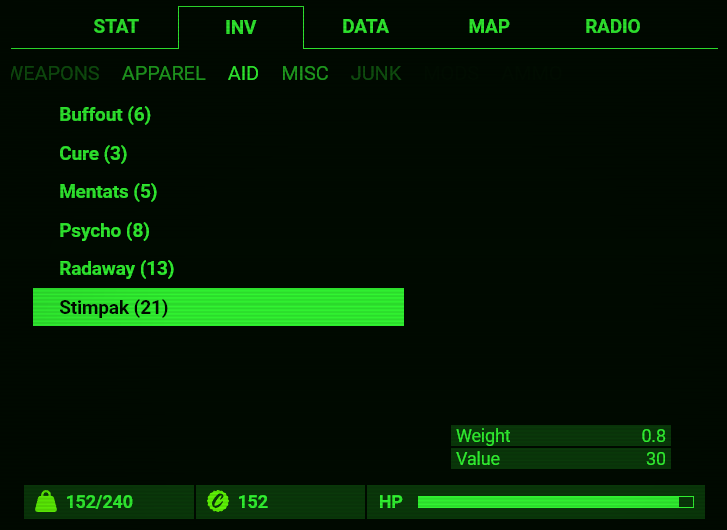
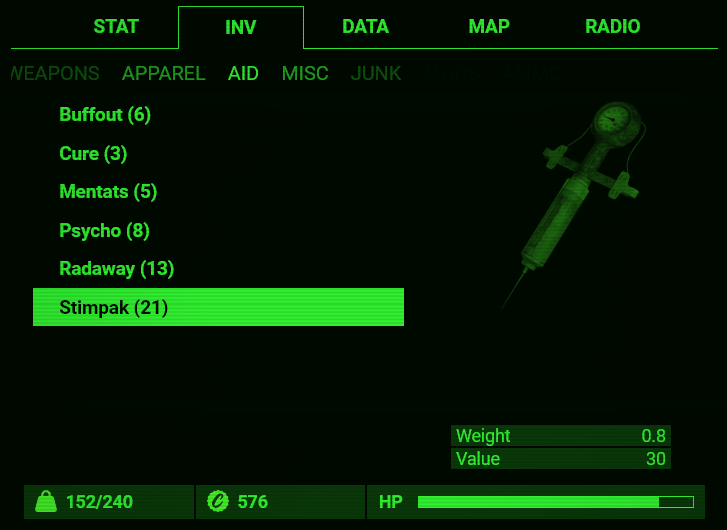
feat: Add new inventory images for aid, ammo, and junk doc: Update readme with new pictures of said images

diff --git a/style.css b/style.css
@@ -471,7 +471,7 @@ td.status-overview-separator {
   height: fit-content;
 }
 
-#perk-img, #attr-img, #weapon-img {
+#perk-img, #attr-img, #inv-img {
   text-align: center;
   max-width: 100%;
   height: auto;
@@ -489,14 +489,14 @@ td.status-overview-separator {
   display: flex;
 }
 
-.weapon-image-container {
+.inventory-image-container {
   display: flex;
   align-items: center;
   justify-content: center;
   height: 200px;
 }
 
-#perk-img, #weapon-img {
+#perk-img, #inv-img {
   filter: sepia(1) contrast(1) brightness(0.6) saturate(4) hue-rotate(var(--biHue));
   margin: auto;
   display: block;

diff --git a/itemLists.js b/itemLists.js
@@ -298,7 +298,7 @@ function scrollIntoViewIfNeeded(element) {
 
 function updateItemDetails(itemId, itemType) {
   const detailsTable = document.getElementById('details-table');
-  const weaponImage = document.getElementById('weapon-img');
+  const weaponImage = document.getElementById('inv-img');
   const attrDesc = document.getElementById('attr-description');
   const perkRank = document.getElementById('perk-rank');
   const perkDesc = document.getElementById('perk-description');

diff --git a/tabs/inv/weapons.html b/tabs/inv/weapons.html
@@ -5,8 +5,8 @@
         </div>
     </div>
     <div class="inv-right-half list-half">
-        <div class="weapon-image-container">
-            <img id="weapon-img">
+        <div class="inventory-image-container">
+            <img id="inv-img">
         </div>
         <div>
             <table id="details-table" category="inv/weapons">

diff --git a/tabs/inv/ammo.html b/tabs/inv/ammo.html
@@ -5,8 +5,8 @@
         </div>
     </div>
     <div class="inv-right-half list-half">
-        <div>
-            <!-- Something here in the future -->
+        <div class="inventory-image-container">
+            <img id="inv-img">
         </div>
         <div>
             <table id="details-table" category="inv/ammo">

diff --git a/tabs/inv/misc.html b/tabs/inv/misc.html
@@ -5,8 +5,8 @@
         </div>
     </div>
     <div class="inv-right-half list-half">
-        <div>
-            <!-- Something here in the future -->
+        <div class="inventory-image-container">
+            <img id="inv-img">
         </div>
         <div>
             <table id="details-table" category="inv/misc">

diff --git a/tabs/inv/mods.html b/tabs/inv/mods.html
@@ -5,8 +5,8 @@
         </div>
     </div>
     <div class="inv-right-half list-half">
-        <div>
-            <!-- Something here in the future -->
+        <div class="inventory-image-container">
+            <img id="inv-img">
         </div>
         <div>
             <table id="details-table" category="inv/mods">

diff --git a/tabs/inv/aid.html b/tabs/inv/aid.html
@@ -5,8 +5,8 @@
         </div>
     </div>
     <div class="inv-right-half list-half">
-        <div>
-            <!-- Something here in the future -->
+        <div class="inventory-image-container">
+            <img id="inv-img">
         </div>
         <div>
             <table id="details-table" category="inv/aid">

diff --git a/tabs/inv/junk.html b/tabs/inv/junk.html
@@ -5,8 +5,8 @@
         </div>
     </div>
     <div class="inv-right-half list-half">
-        <div>
-            <!-- Something here in the future -->
+        <div class="inventory-image-container">
+            <img id="inv-img">
         </div>
         <div>
             <p id="junk-components"></p>

diff --git a/localizedReadme/README-fr.md b/localizedReadme/README-fr.md
@@ -112,11 +112,13 @@ Cette page de paramètres permet des configurations sympas comme par exemple cel
 
 Dans l'onglet inventaire, votre inventaire (défini dans votre fichier de profil) sera affiché.  
   
-![Inv/Armes](/readme_sources/images/weapons.png)  
+![Inv/weapons](/readme_sources/images/weapons.png)  
    
-![Inv/Vêtements](/readme_sources/images/apparel.png)  
+![Inv/apparel](/readme_sources/images/apparel.png)  
    
-![Inv/soins](/readme_sources/images/aid.png)  
+![Inv/aid](/readme_sources/images/aid.png)  
+  
+![Inv/junk](/readme_sources/images/junk.png)  
    
 Les statistiques des objets (dans le tableau) proviennent du fichier [`items.json`](/items.json), à l'exception de la quantité de munitions, qui provient de votre fichier de profil.  
   

diff --git a/README.md b/README.md
@@ -117,6 +117,8 @@ In the inventory tab will be shown your inventory (set in your profile file).
 ![Inv/Apparel](/readme_sources/images/apparel.png)  
    
 ![Inv/aid](/readme_sources/images/aid.png)  
+  
+![Inv/junk](/readme_sources/images/junk.png)  
    
 The stats of the items (in the table) come from the [`items.json`](/items.json) file, except for the amount of ammo, which comes from your profile file.  
   
